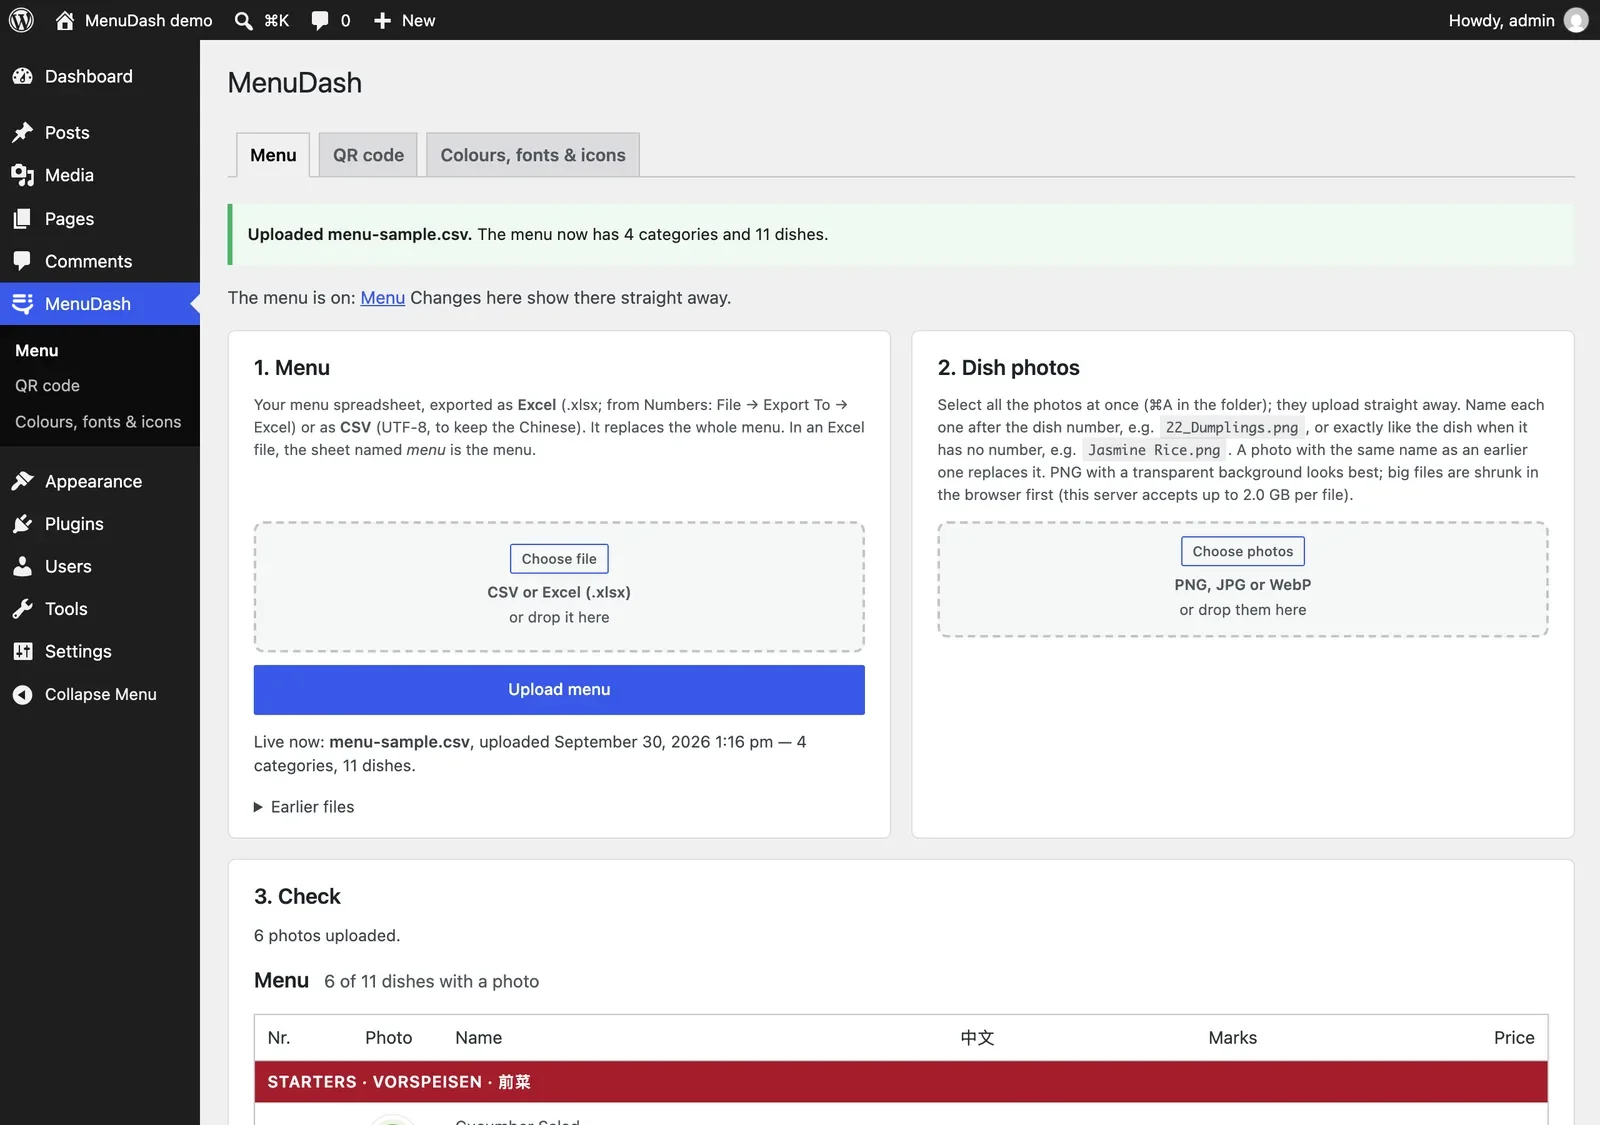
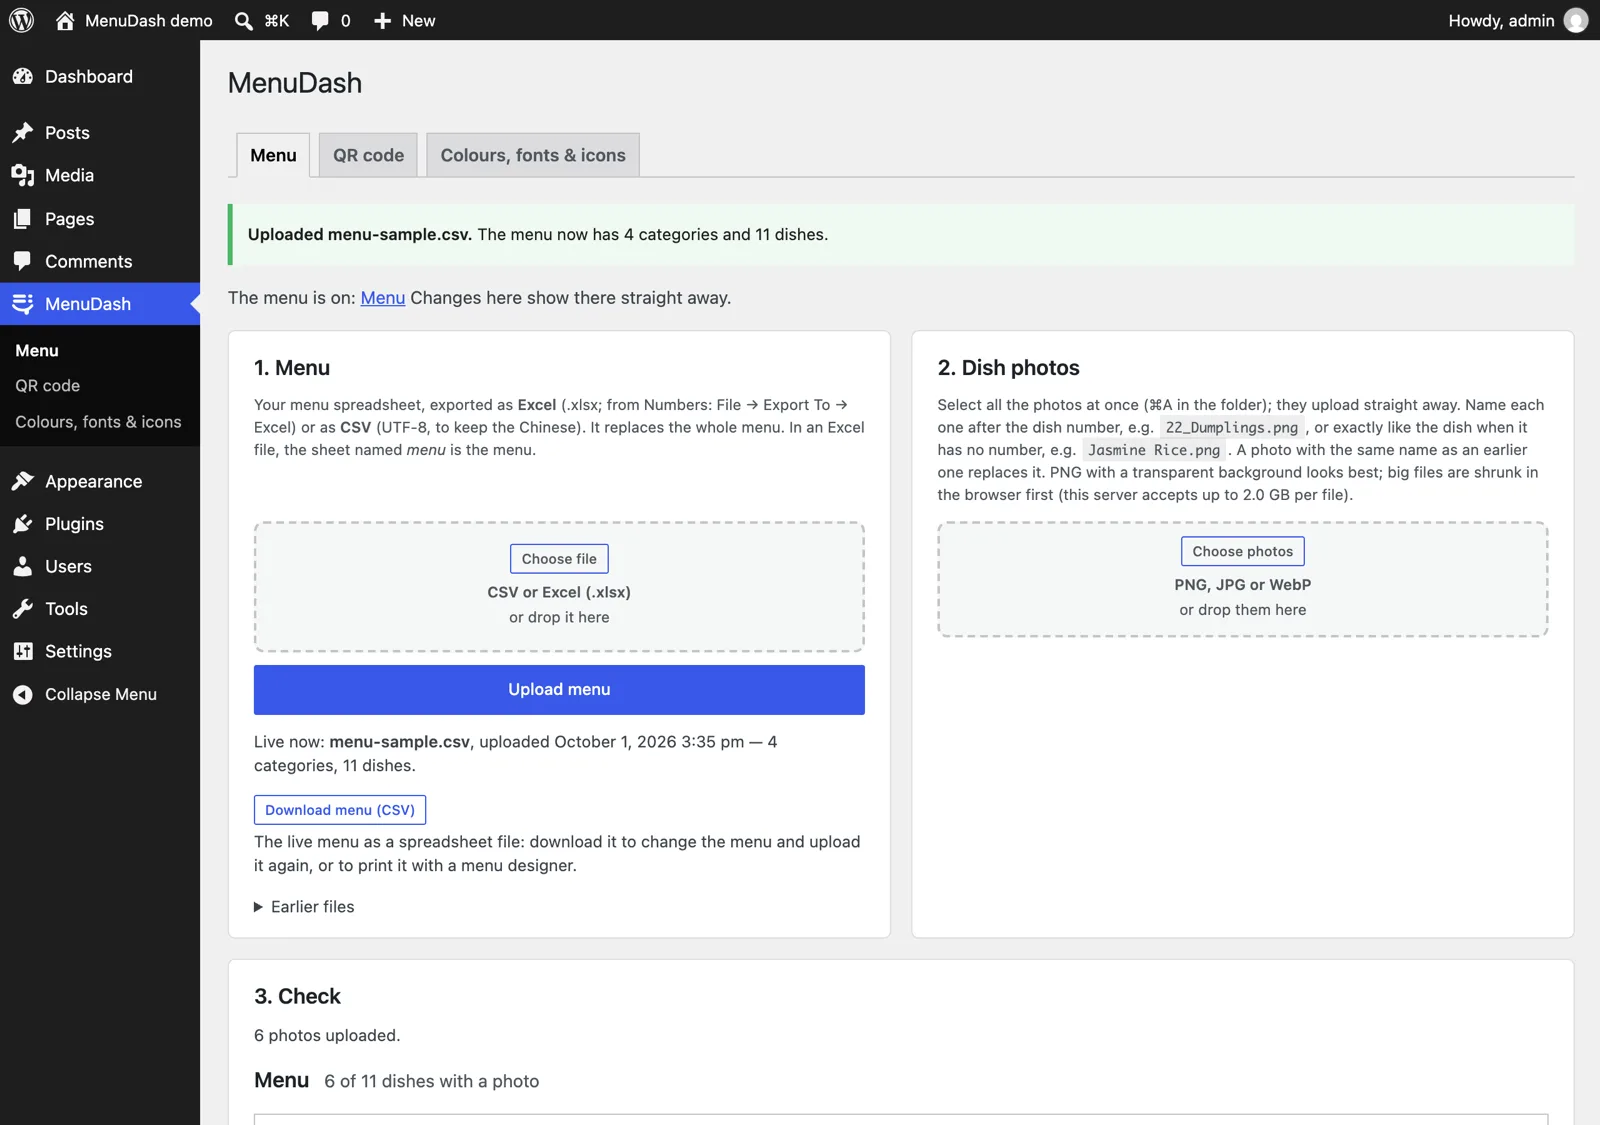
MenuDash: retake the dashboard shot with the Download menu (CSV) button

diff --git a/src/content/projects/menudash/index.md b/src/content/projects/menudash/index.md
@@ -87,7 +87,7 @@ A Fatt, a Malaysian Chinese restaurant in Zürich, runs its menu on MenuDash: 11
 - Use the dashboard in German, English or Chinese. It follows each user’s WordPress language.
 - Update MenuDash with one click, like any other plugin, when a new version comes out.
 
-![The MenuDash page in the WordPress dashboard after an upload: a confirmation, the menu and photo upload boxes, and the check list of dishes](./dashboard-upload.webp)
+![The MenuDash page in the WordPress dashboard after an upload: a confirmation, the menu and photo upload boxes, the Download menu (CSV) button, and the check list of dishes](./dashboard-upload.webp)
 
 ![The Recommended dishes block in the page editor: tabs for meat and fish or vegan and vegetarian, a row of dishes with photos and names in German and Chinese, and a button to the whole menu](./recommended-dishes.webp)
 
